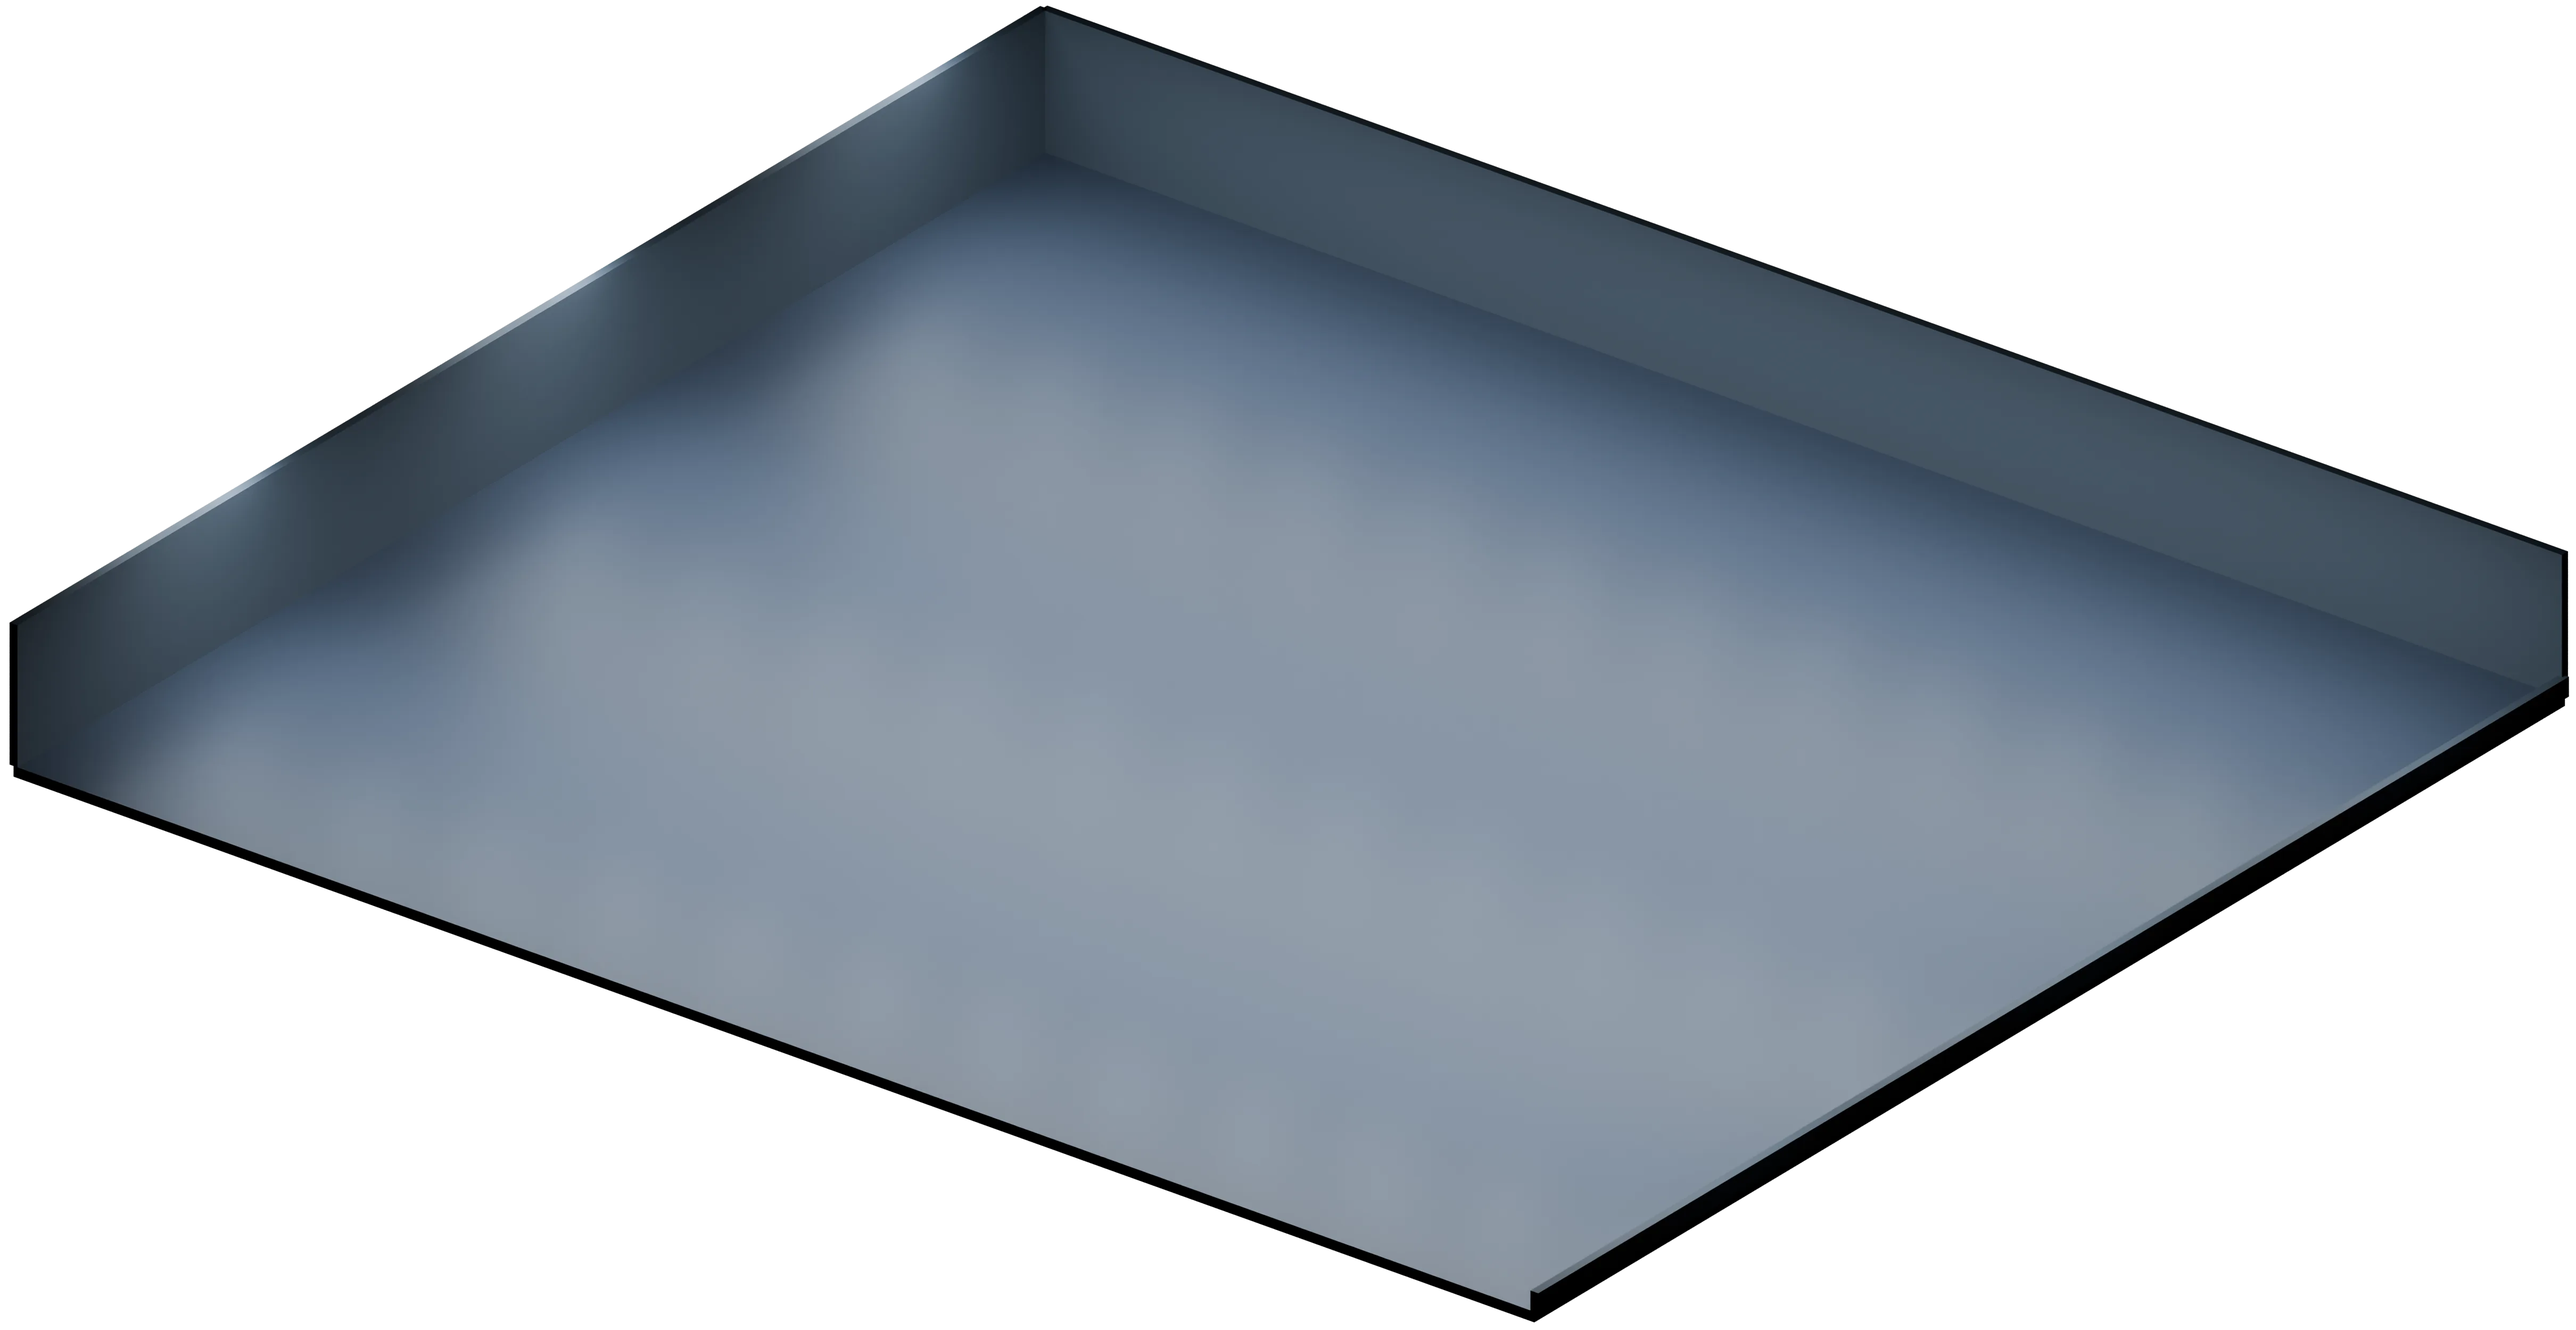
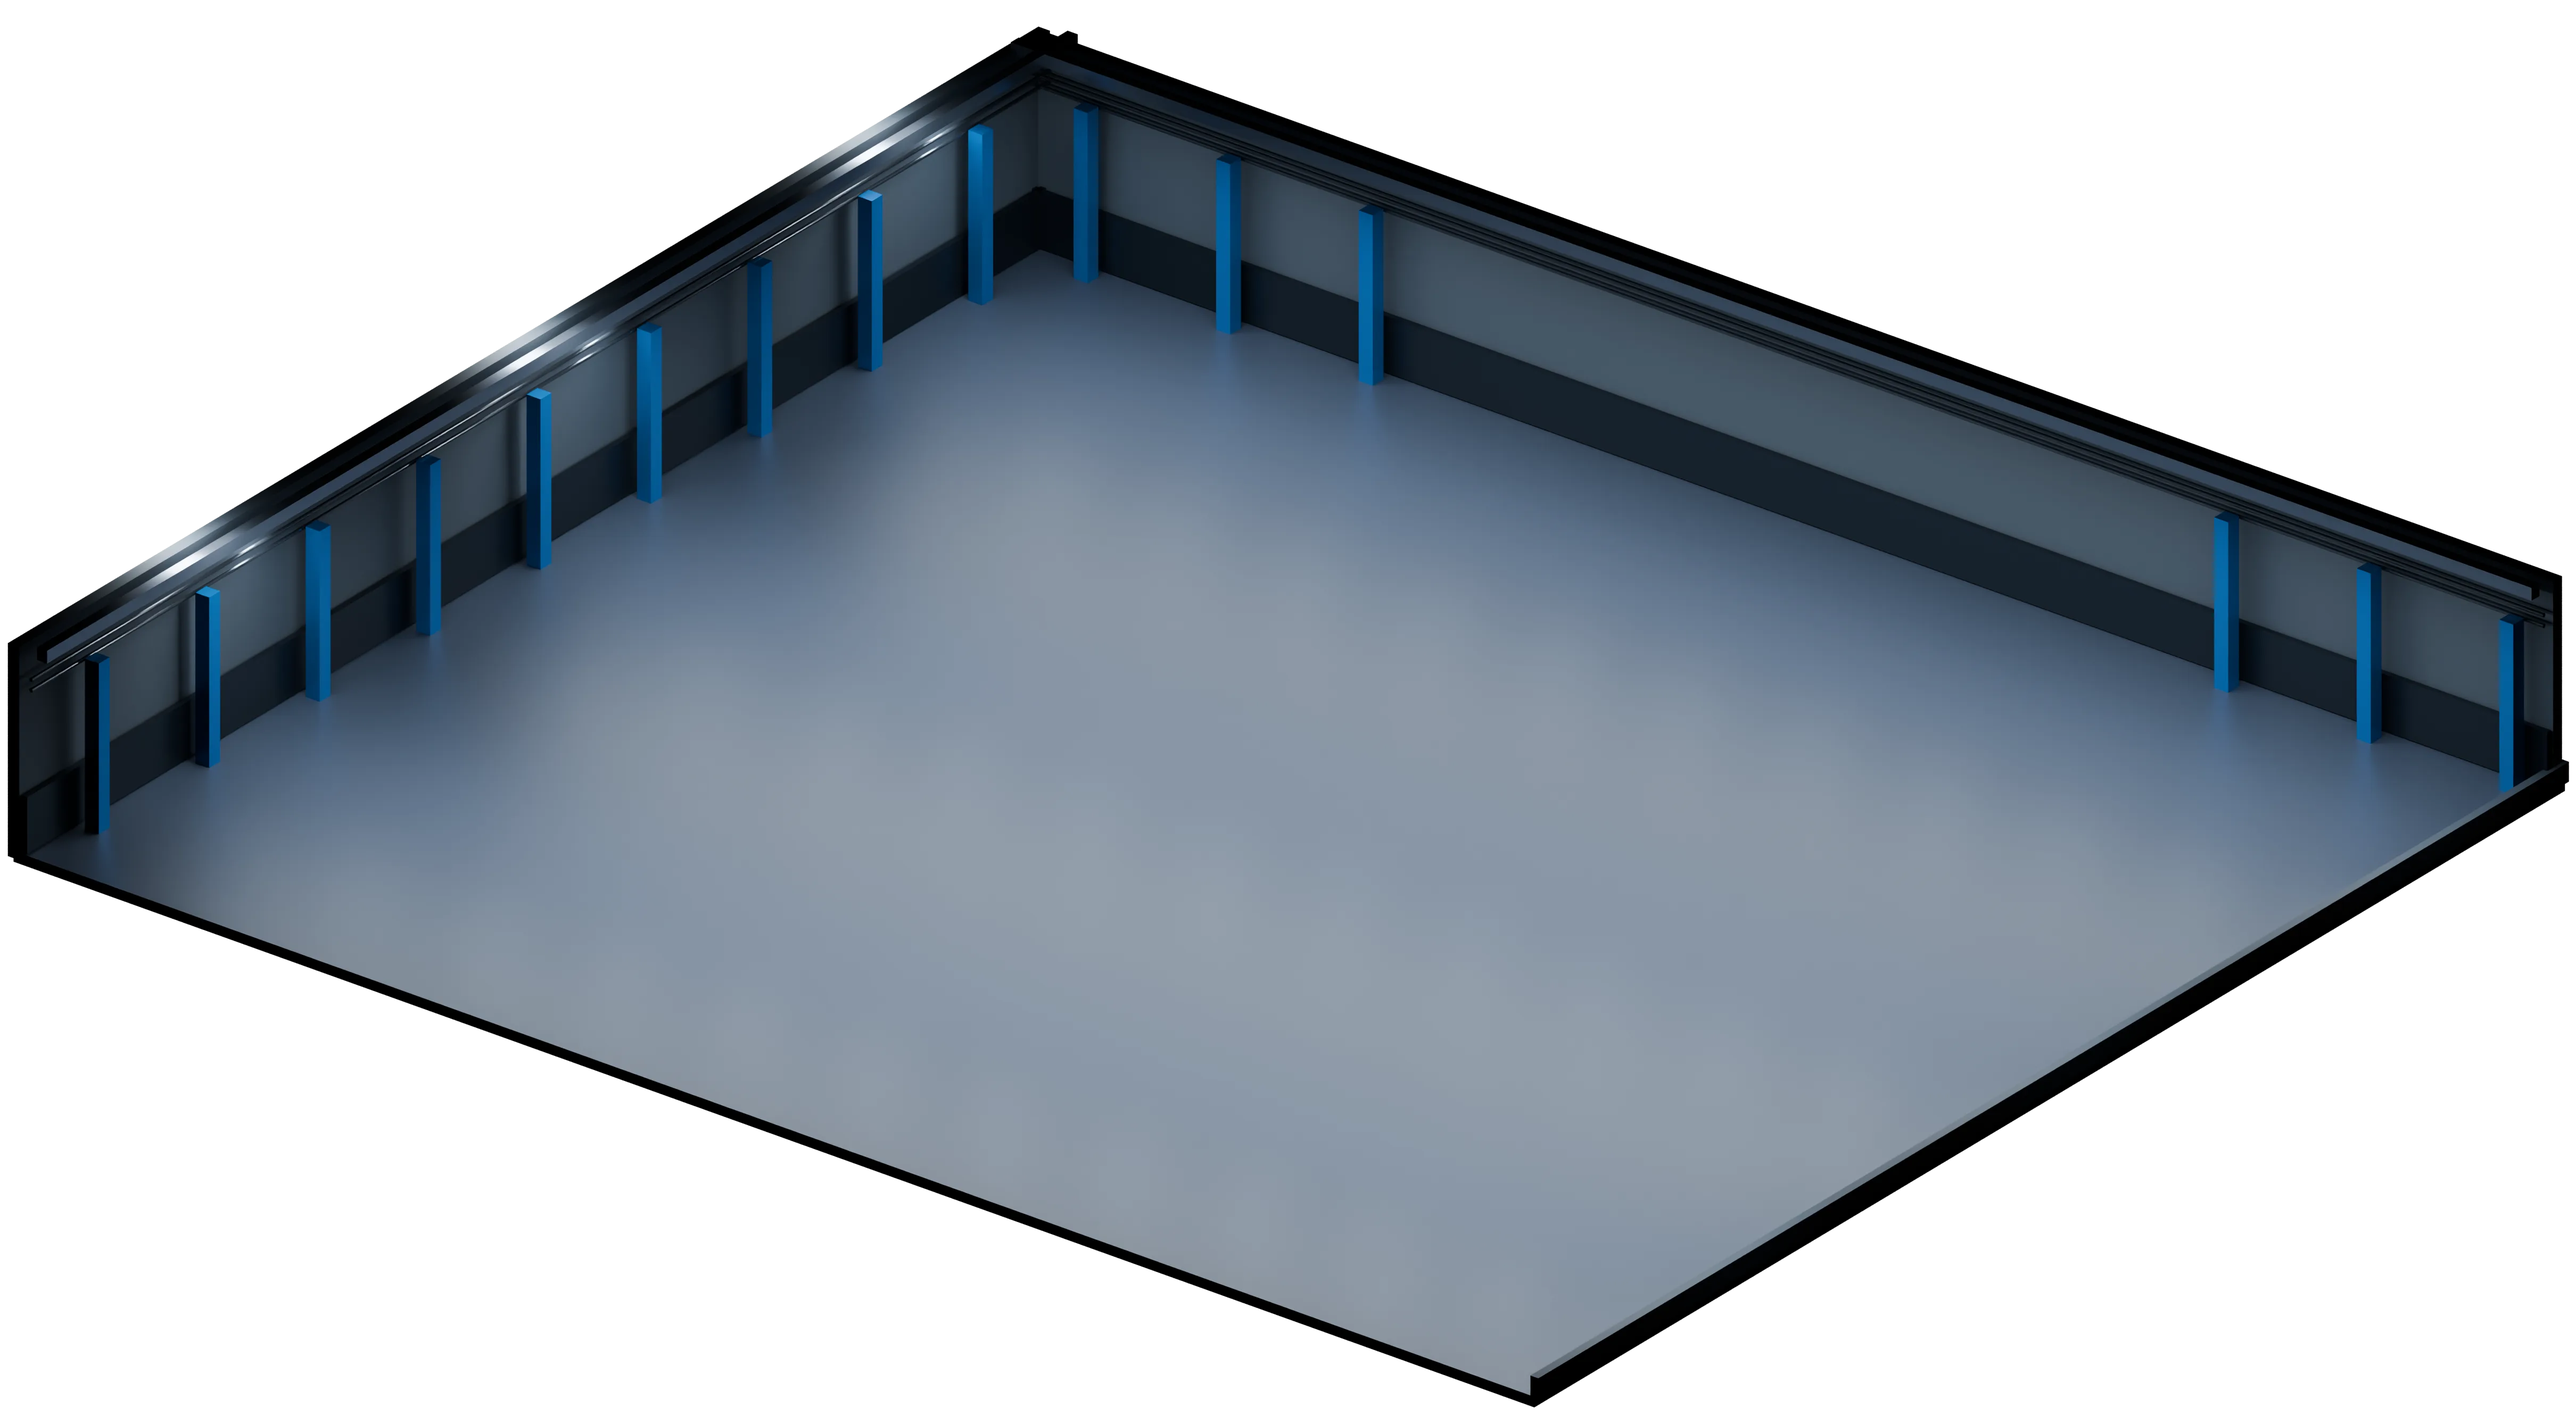
Paredes del terreno con el diseno del garaje original (zocalo, tuberias, viga, columnas azules)
Claude-Session: https://claude.ai/code/session_01H1beWi4zmVGMP2Tdas5FN6

diff --git a/src/core/layout.ts b/src/core/layout.ts
@@ -20,9 +20,9 @@ export interface WallDef { id: string; rot: Rot; axis: 'x' | 'y'; face: number; 
 /** Muros donde se puede colgar decoración. `face` = coordenada de la cara visible del muro. */
 export const WALLS: WallDef[] = [
   { id: 'garaje-fondo', rot: 0, axis: 'y', face: 6.52 + GY, range: [-12, 12] },
-  { id: 'lote-fondo-izq', rot: 0, axis: 'y', face: 20.875, range: [-24, -12], zones: ['flanco-izquierdo'] },
-  { id: 'lote-fondo-der', rot: 0, axis: 'y', face: 20.875, range: [12, 24], zones: ['flanco-derecho'] },
-  { id: 'lote-izq', rot: 1, axis: 'x', face: -23.875, range: [-21, 21], zones: ['patio-izquierdo', 'frente-izquierdo', 'flanco-izquierdo'] },
+  { id: 'lote-fondo-izq', rot: 0, axis: 'y', face: 20.52, range: [-24, -12], zones: ['flanco-izquierdo'] },
+  { id: 'lote-fondo-der', rot: 0, axis: 'y', face: 20.52, range: [12, 24], zones: ['flanco-derecho'] },
+  { id: 'lote-izq', rot: 1, axis: 'x', face: -23.82, range: [-21, 21], zones: ['patio-izquierdo', 'frente-izquierdo', 'flanco-izquierdo'] },
 ];
 
 export const hasZoneId = (save: Pick<SaveData, 'zones'>, id: string) => (save.zones ?? []).includes(id);

diff --git a/src/engine/assets.ts b/src/engine/assets.ts
@@ -50,5 +50,5 @@ export const BG = { x: -116 + GARAGE_OFFSET[1] * 46.1048 + GARAGE_OFFSET[0] * 59
  * LOT = suelo de las 6 zonas del GL_CARTOWN_GARAGE_V8 + muros (se dibuja bajo garage_bg.png).
  * STREETS = calles y aceras GL_GARAGE_STREETS_V11, renderizadas a la mitad de resolución (scale 2).
  */
-export const LOT = { x: -1490, y: -770, w: 4840, h: 2500 };
+export const LOT = { x: -1490, y: -930, w: 4840, h: 2660 };
 export const STREETS = { x: -2440, y: -950, w: 6750, h: 3120, scale: 2 };

diff --git a/tools/render_lot.py b/tools/render_lot.py
@@ -54,6 +54,38 @@ for o in bpy.data.objects:
     if o.type != 'MESH': continue
     for sl in o.material_slots:
         if sl.material and sl.material.name in MAP: sl.material = MAP[sl.material.name]
+# Paredes como las del garaje original: muro oscuro de 6 m, zocalo metalico, tuberias, viga de techo y columnas azules cada 4.5 m.
+if MODE == 'lot':
+    def gm(name, c, r, m):
+        return pbsdf(name, (*c, 1), r, m)
+    M_STEEL = gm('K_Steel', (0.2, 0.23, 0.27), 0.22, 0.85); M_DARK = gm('K_DarkMetal', (0.03, 0.04, 0.05), 0.28, 0.75)
+    M_BLUE = gm('K_Blue', (0.01, 0.16, 0.42), 0.25, 0.65); M_PIPE = gm('K_Pipes', (0.09, 0.1, 0.11), 0.22, 0.85)
+    def box(name, cx, cy, cz, sx, sy, sz, mat, cyl=False):
+        if cyl: bpy.ops.mesh.primitive_cylinder_add(radius=0.5, depth=1, location=(cx, cy, cz), vertices=16)
+        else: bpy.ops.mesh.primitive_cube_add(size=1, location=(cx, cy, cz))
+        o = bpy.context.object; o.name = name; o.scale = (sx, sy, sz); o.data.materials.append(mat); return o
+    for o in bpy.data.objects:
+        if o.name == 'GL_V8_WALL_BACK': o.location = (0, 20.7, 2.8); o.dimensions = (48, 0.36, 6)
+        if o.name == 'GL_V8_WALL_LEFT': o.location = (-24, 0, 2.8); o.dimensions = (0.36, 42, 6)
+    def kit(axis, face, inward, lo, hi, skip=None):
+        """axis 'y': muro a lo largo de X en y=face (inward = -1: el interior esta hacia -Y). axis 'x': muro a lo largo de Y en x=face."""
+        L = hi - lo; mid = (lo + hi) / 2
+        def P(along, d, z, sa, sd, sz, mat, name, cyl=False):
+            a, dd = (along, face + inward * d)
+            if axis == 'y': return box(name, a, dd, z, sa, sd, sz, mat, cyl)
+            return box(name, dd, a, z, sd, sa, sz, mat, cyl)
+        P(mid, 0.17, 0.85, L, 0.16, 1.6, M_DARK, 'K_Lower')
+        for z in (4.7, 5.0):
+            o = P(mid, 0.37, z, 0.11, 0.11, L, M_PIPE, 'K_Pipe', True)
+            o.rotation_euler = (0, math.pi / 2, 0) if axis == 'y' else (math.pi / 2, 0, 0)
+            o.scale = (0.11, 0.11, L)
+        P(mid, 0.72, 5.8, L, 0.32, 0.36, M_STEEL, 'K_Beam')
+        a = lo + 2.25
+        while a < hi:
+            if not (skip and skip[0] < a < skip[1]): P(a, 0.72, 2.4, 0.44, 0.44, 4.8, M_BLUE, 'K_Col')
+            a += 4.5
+    kit('y', 20.52, -1, -24, 24, skip=(-12.5, 12.5))
+    kit('x', -23.82, 1, -21, 21)
 # corte isometrico: la pared derecha (la mas cercana a la camara) se baja para no tapar el interior
 for o in bpy.data.objects:
     if o.name == 'GL_V8_WALL_RIGHT':
